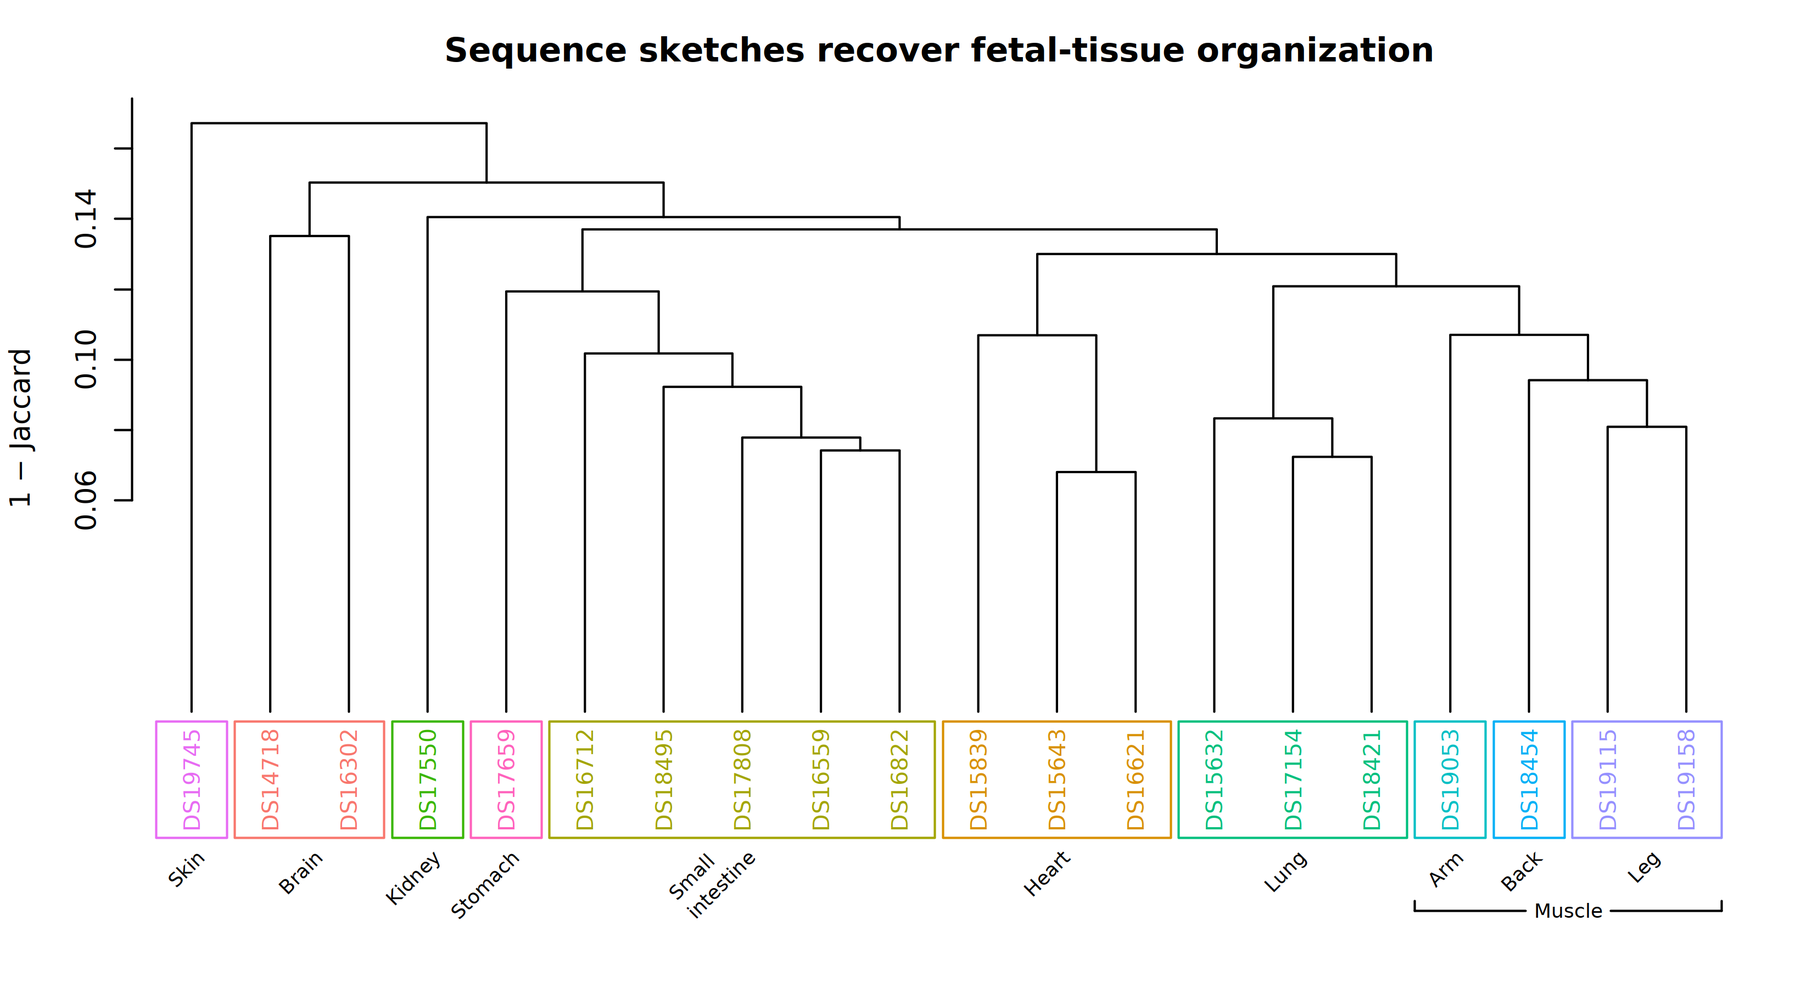
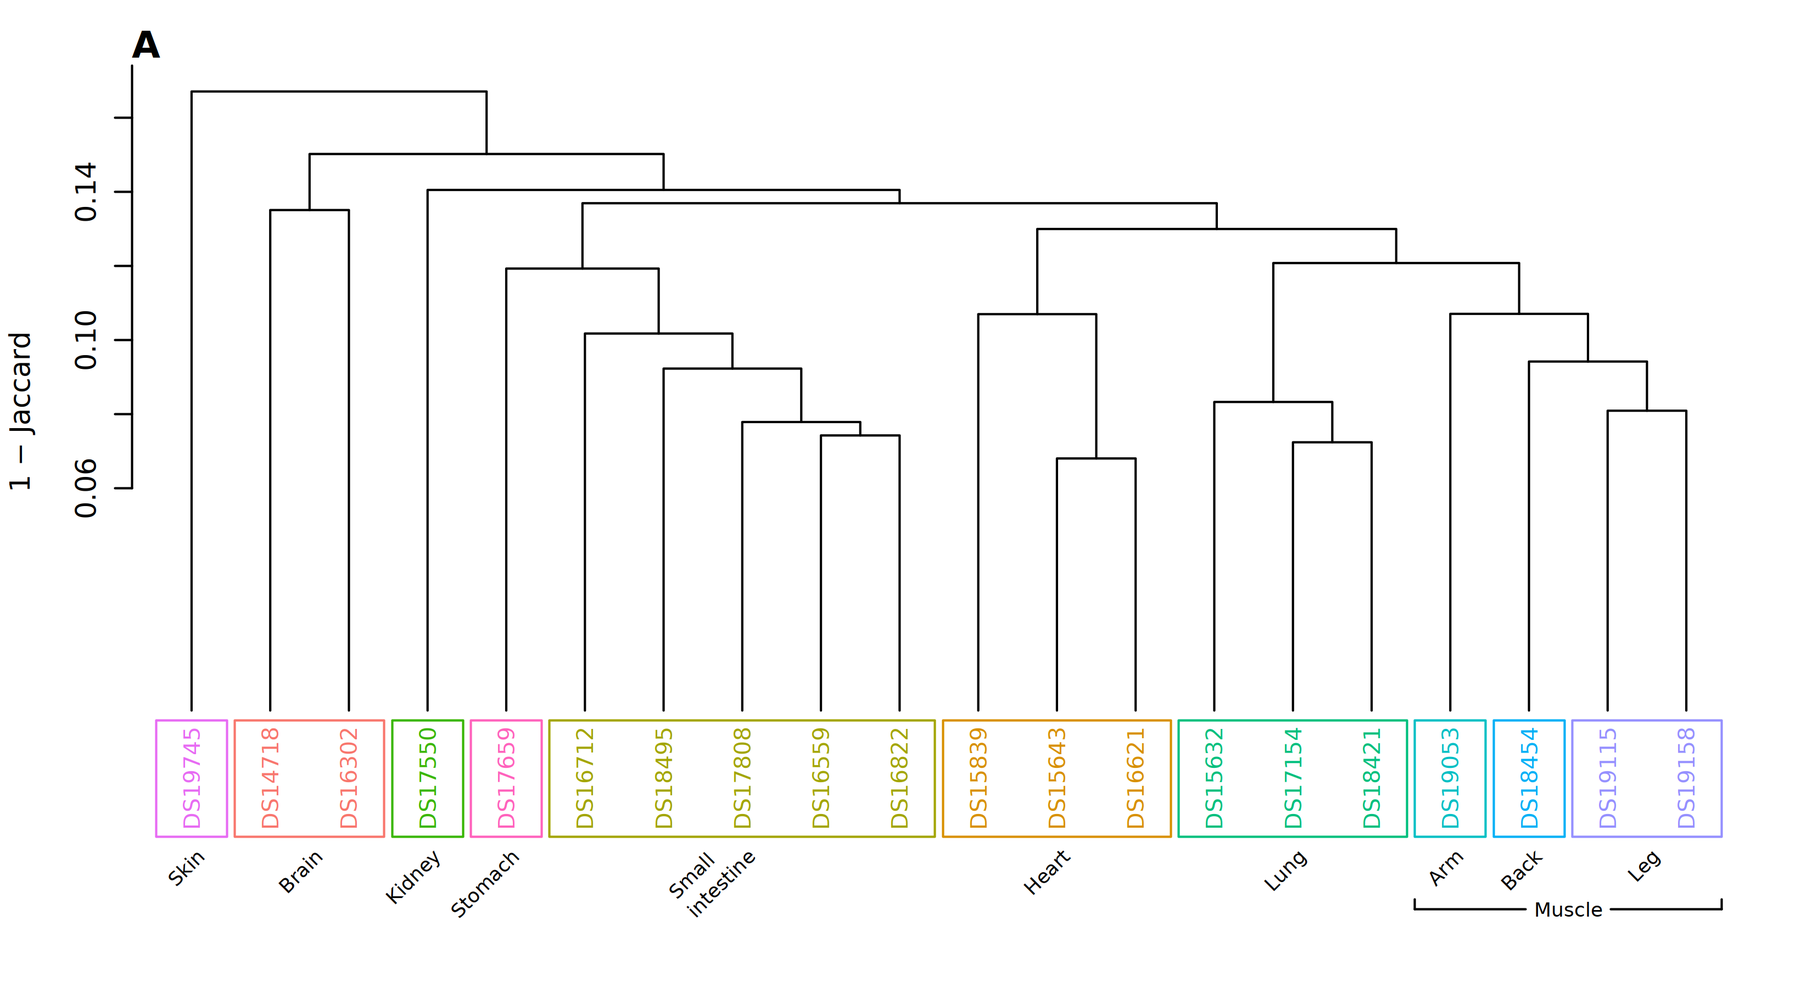
Add tissue distance heatmap companion

diff --git a/paper/draft.md b/paper/draft.md
@@ -107,9 +107,11 @@ Together, the synthetic and real-data benchmarks show that hammock improves the 
 
 ![Figure 6](figures/sequence_tissue_clustering.png)
 
-**Figure 6. Sequence sketches recover fetal-tissue organization in the Maurano DNase hypersensitivity collection.** Twenty fetal-tissue DNase-seq interval sets spanning ten annotated tissue labels were converted to interval-derived sequence and compared using the minimizer-only `reg_eq_similarity` score at k=10, w=30, and HyperLogLog precision p=24. Average-linkage hierarchical clustering was performed on 1-J. Leaf labels show dataset accessions and are colored by annotated tissue. The tissue coloring is an annotation of the dendrogram and does not represent a discrete cluster cut.
+![Figure 6B](figures/sequence_tissue_distance_heatmap.png)
 
-**Figure 6 generation.** The figure is generated by `paper/sequence_tissue_clustering/plot_sequence_tissue_clustering.R` and written to `paper/figures/sequence_tissue_clustering.png`. By default, the script reads `experiments/maurano_dhs_validation/results/raw_d/hammock_mnmzr_p24_jaccD_k10_w30.csv`, uses the register-equality column, and obtains tissue annotations from `experiments/maurano_dhs_validation/data/maurano_filenames_key.tsv`. (That archived CSV predates the `reg_eq_similarity` rename and still carries the legacy `jaccard_similarity` header; the script prefers `reg_eq_similarity` if present and falls back to `jaccard_similarity`, which is what actually resolves here.) Optional command-line arguments can substitute another similarity CSV, tissue key, output path, or similarity column. Passing `jaccard_similarity_ie` as the fourth argument produces Supplementary Figure S5a; the column is derived from the containment columns the archived CSV already carries, since the sweep predates it. Two further renderings of the same configuration at different precisions, `paper/figures/sequence_tissue_clustering_p12.png` and `sequence_tissue_clustering_p24.png`, record that the clustering is unchanged across the p ≥ 12 plateau and are retained as supporting material rather than manuscript figures.
+**Figure 6. Sequence sketches recover fetal-tissue organization in the Maurano DNase hypersensitivity collection.** Twenty fetal-tissue DNase-seq interval sets spanning ten annotated tissue labels were converted to interval-derived sequence and compared using the inclusion–exclusion Jaccard estimate, `jaccard_similarity_ie`, at k=10, w=30, and HyperLogLog precision p=24. **(A)** Average-linkage agglomerative hierarchical clustering was performed on 1−J. Leaf labels show dataset accessions and are colored and boxed by annotated tissue; these annotations do not represent a discrete cluster cut. **(B)** The complete pairwise 1−J distance matrix is ordered by the leaf order of the average-linkage dendrogram in A for direct comparison; this display ordering does not affect distances or cluster assignments. Accession-label colors and marginal bars denote annotated tissues, with arm, back, and leg grouped under muscle. Lime-green diagonal outlines show the ten clusters obtained by cutting the average-linkage hierarchy at k=10. They expose the departures from the annotated tissue partition: the two brain samples occupy separate singleton clusters, whereas the back sample and two leg samples occupy one cluster. The brain samples are nevertheless nearest neighbors (1−J=0.135), but their distance exceeds the tightest within-tissue distances for heart (~0.068) and lung (~0.072). Consequently, the ten-cluster cut occurs before the brain pair merges, yielding ARI=0.910 rather than 1.0.
+
+**Figure 6 generation.** Panel A is generated by `paper/sequence_tissue_clustering/plot_sequence_tissue_clustering.R` and written to `paper/figures/sequence_tissue_clustering.png`; Panel B is generated by `paper/sequence_tissue_clustering/plot_distance_heatmap.R` and written to `paper/figures/sequence_tissue_distance_heatmap.png`. Both scripts read `experiments/maurano_dhs_validation/results/raw_d/hammock_mnmzr_p24_jaccD_k10_w30_full.csv`, use `jaccard_similarity_ie`, and obtain tissue annotations from `experiments/maurano_dhs_validation/data/maurano_filenames_key.tsv`. The archived sweep predates the native inclusion–exclusion output column, so the scripts derive it from `containment_AB` and `containment_BA`. Optional command-line arguments can substitute another similarity CSV, tissue key, output path, or similarity column. Two further dendrogram renderings at different precisions are retained as supporting material rather than manuscript figures.
 
 ### 2.3.3 Parameterization separates numerical agreement from biological resolution
 
@@ -211,7 +213,7 @@ Explain determinism, seed handling, expected sampling density, computational cos
 - **Why not the joint maximum-likelihood estimator.** *"Ertl's joint MLE is the lower-variance choice for HyperLogLog Jaccard, but it requires the joint register histogram of the pair, which hammock's sketch interface does not expose; the inclusion–exclusion form is recoverable from the containment estimates already computed and needs no additional interface."* Pre-empts the obvious reviewer question.
 - **Which column to report.** *"We report* `jaccard_similarity_ie` *for any comparison of magnitude, and for any comparison spanning different set sizes;* `reg_eq_similarity` *is retained as the low-cost default."*
   - One clause on the exception (register-equality ranks better below J ≈ 0.05 at p ≤ 20 among comparably-sized pairs, and one step of precision removes the advantage), with the quantification deferred to a supplementary note rather than carried in Methods.
-  - **Figure 6 estimator note:** the current Figure 6 is generated from the register-equality column — `jaccard_similarity` in that archived sweep's own header, read via `reg_eq_similarity`-preferred/`jaccard_similarity`-fallback (see the generation note above) — because that is the column the original sequence-mode sweep emitted. At Figure 6's configuration (k=10, w=30, p=24) the two columns induce the *identical* 10-cluster partition — not merely equal scores, the same member sets — with ARI and NMI agreeing to sixteen digits. The equivalence is **local, not global**: across the 235-cell sweep the two columns give different ARI at 48 cells (max |ΔARI| 0.301). The disagreement decays with precision — 16 of 17 cells differ at p=10, but only 1 of 39 at p=24, and that one (k=8, w=500) has ARI 0.059 against 0.025, i.e. both clusterings are degenerate. So the defensible statement is "identical at p=24 except one degenerate cell, and at every cell the manuscript cites", not "identical everywhere". Generated by `paper/sequence_tissue_clustering/estimator_agreement_stats.csv` and `experiments/maurano_dhs_validation/results/estimator_ari_by_config.csv`. This is methodological context and should not be carried in the Figure 6 caption.
+  - **Figure 6 estimator note:** Figure 6 now uses `jaccard_similarity_ie`, derived from the archived sweep's containment columns. At Figure 6's configuration (k=10, w=30, p=24), inclusion–exclusion and the archived register-equality column induce the *identical* 10-cluster partition — not merely equal scores, the same member sets — with ARI and NMI agreeing to sixteen digits. The equivalence is **local, not global**: across the 235-cell sweep the two columns give different ARI at 48 cells (max |ΔARI| 0.301). The disagreement decays with precision — 16 of 17 cells differ at p=10, but only 1 of 39 at p=24, and that one (k=8, w=500) has ARI 0.059 against 0.025, i.e. both clusterings are degenerate. So the defensible statement is "identical at p=24 except one degenerate cell, and at every cell the manuscript cites", not "identical everywhere". Generated by `paper/sequence_tissue_clustering/estimator_agreement_stats.csv` and `experiments/maurano_dhs_validation/results/estimator_ari_by_config.csv`. This is methodological context and should not be carried in the Figure 6 caption.
 - **Complexity.** Retain the original stub: cost of mixed-stride sketch construction as a function of covered length and stride, alongside full interval ingestion and pairwise sketch comparison.
 
 ### 4.5 Datasets
@@ -256,9 +258,11 @@ The ordering differences under register-equality were small but systematic. Kend
 
 ### S5. Sequence-mode results are unchanged when read on `jaccard_similarity_ie`
 
-Every sequence-mode figure (Figures 5, 6, 7) is drawn on the register-equality column, because that is the column the sequence-mode sweeps emitted; `jaccard_similarity_ie` shipped afterwards. (Figure 5's source CSV was one of the five archived files renamed alongside the CLI, so it literally carries `reg_eq_similarity`; Figures 6 and 7's sources predate that rename and still carry the legacy `jaccard_similarity` header, read via the same fallback described above — same column, same values, different literal name depending on when the file was written.) Because the archived CSVs carry `containment_AB` and `containment_BA`, the inclusion–exclusion column is exactly recoverable from them (`J = 1/(1/C_AB + 1/C_BA − 1)`), so this check required no re-sketching.
+Figure 5 retains the register-equality column used by its original sequence-mode analysis. Figure 6 and its companion distance heatmap use `jaccard_similarity_ie`, while Figure 7 displays both estimators. Because the archived Figure 6 sweep carries `containment_AB` and `containment_BA`, its inclusion–exclusion column is exactly recoverable (`J = 1/(1/C_AB + 1/C_BA − 1)`), so the change requires no re-sketching.
 
-**Tissue clustering (Figure 6).** At k=10, w=30, p=24 the two columns induce the identical ten-cluster partition (ARI = 0.9102, NMI = 0.9610 under both, agreeing to sixteen digits). Supplementary Figure S5a (`paper/figures/sequence_tissue_clustering_k10_w30_p24_ie.png`) is the Figure 6 dendrogram redrawn on `jaccard_similarity_ie`; every annotated tissue occupies a contiguous, monophyletic block, as in Figure 6. Across the full 235-cell (k, w, p) sweep the columns are *not* interchangeable — ARI differs at 48 cells, maximum |ΔARI| = 0.301 — but the disagreement is concentrated at low precision (16 of 17 cells at p=10 against 1 of 39 at p=24) and does not touch any configuration the manuscript reports.
+**Tissue clustering (Figure 6).** At k=10, w=30, p=24 the inclusion–exclusion and register-equality columns induce the identical ten-cluster partition (ARI = 0.9102, NMI = 0.9610 under both, agreeing to sixteen digits). Figure 6 now displays the inclusion–exclusion result. Across the full 235-cell (k, w, p) sweep the columns are *not* interchangeable — ARI differs at 48 cells, maximum |ΔARI| = 0.301 — but the disagreement is concentrated at low precision (16 of 17 cells at p=10 against 1 of 39 at p=24) and does not touch any configuration the manuscript reports.
+
+The ten-cluster partition itself is not perfect (ARI 0.9102, not 1.0), and Figure 6A's tissue-colored boxes can make the shortfall harder to see than it is, because those boxes are drawn from the true tissue labels' contiguity in the leaf order, not from the `cutree(k=10)` assignment the ARI is computed from. Concretely, at this configuration `cutree` splits the two fBrain samples into two singleton clusters and groups the back sample with the two leg samples. Figure 6B plots the full pairwise 1−J distance matrix in the same leaf order and shows why: the fBrain pair's distance (0.135) is a real local minimum — they are each other's nearest neighbor — but it is larger than the tightest within-tissue distances for Heart (~0.068) or Lung (~0.072), so their merge is one of the ones pruned away when the tree is cut to exactly ten clusters.
 
 **Parameter selection (Figure 7).** The ARI-optimal configuration is k=10, w=30 under both columns, at the same ARI of 0.9102, and the best-ARI value is reached on a plateau spanning every precision p ≥ 12. The Pearson-optimal configuration differs between columns — k=20, w=100 on `reg_eq_similarity` (r = 0.9996) against k=20, w=20 on `jaccard_similarity_ie` (r = 0.99997) — so the two panels of Figure 7 annotate different best-Pearson points. Figure 7's claim is unaffected: under either column the Pearson optimum has ARI 0.693 against the ARI optimum's 0.910, so numerical agreement and biological resolution still select different settings.
 
@@ -270,7 +274,6 @@ Caveat worth carrying: `jaccard_similarity_ie` is censored at zero by the non-ne
 
 ## Supplementary Figures and Tables
 
-- **Figure S5a — sequence-mode tissue dendrogram on `jaccard_similarity_ie`:** `paper/figures/sequence_tissue_clustering_k10_w30_p24_ie.png`, generated by `paper/sequence_tissue_clustering/plot_sequence_tissue_clustering.R` with `jaccard_similarity_ie` as the fourth positional argument. Companion to Figure 6; see S5.
 - **Figure S5b — cross-reference dendrogram on `jaccard_similarity_ie`:** `paper/figures/cross_reference_identity_ie.png`, generated by `paper/cross_reference_identity/plot_cross_reference_identity.R` with the output path and `jaccard_similarity_ie` as its two positional arguments. Companion to Figure 5; see S5.
 - **Table S5 — estimator agreement:** `paper/sequence_tissue_clustering/estimator_agreement_stats.csv` (per-column ARI/NMI and partition identity at Figure 6's cell), `experiments/maurano_dhs_validation/results/estimator_ari_by_config.csv` (all 235 cells), `experiments/maurano_dhs_validation/results/best_config_by_column.csv` (per-column optimum with tie sets), and `experiments/ref-comparison/results/exp_a_estimator_delta.csv` (cross-reference Δ per cell).
 - **TODO — sequence-mode parameter heatmaps:** include the full k × w parameter-response heatmaps for numerical agreement with BEDTools and biological clustering performance (ARI/NMI), potentially stratified by HyperLogLog precision and/or estimator. These heatmaps should provide the complete response surface underlying the compact objective-space summary in Figure 7 without burdening the main-text figure.

diff --git a/paper/outline.md b/paper/outline.md
@@ -80,9 +80,11 @@ Together, the synthetic and real-data benchmarks show that hammock improves the 
 
 ![Figure 6](figures/sequence_tissue_clustering.png)
 
-**Figure 6. Sequence sketches recover fetal-tissue organization in the Maurano DNase hypersensitivity collection.** Twenty fetal-tissue DNase-seq interval sets spanning ten annotated tissue labels were converted to interval-derived sequence and compared using the minimizer-only `reg_eq_similarity` score at k=10, w=30, and HyperLogLog precision p=24. Average-linkage hierarchical clustering was performed on 1-J. Leaf labels show dataset accessions and are colored by annotated tissue. The tissue coloring is an annotation of the dendrogram and does not represent a discrete cluster cut.
+![Figure 6B](figures/sequence_tissue_distance_heatmap.png)
 
-**Figure 6 generation.** The figure is generated by `paper/sequence_tissue_clustering/plot_sequence_tissue_clustering.R` and written to `paper/figures/sequence_tissue_clustering.png`. By default, the script reads `experiments/maurano_dhs_validation/results/raw_d/hammock_mnmzr_p24_jaccD_k10_w30.csv`, uses the register-equality column, and obtains tissue annotations from `experiments/maurano_dhs_validation/data/maurano_filenames_key.tsv`. (That archived CSV predates the `reg_eq_similarity` rename and still carries the legacy `jaccard_similarity` header; the script prefers `reg_eq_similarity` if present and falls back to `jaccard_similarity`, which is what actually resolves here.) Optional command-line arguments can substitute another similarity CSV, tissue key, output path, or similarity column. Passing `jaccard_similarity_ie` as the fourth argument redraws the figure on that column, which is derived from the containment columns the archived CSV already carries, since the sweep predates it. Two further renderings of the same configuration at different precisions, `paper/figures/sequence_tissue_clustering_p12.png` and `sequence_tissue_clustering_p24.png`, record that the clustering is unchanged across the p ≥ 12 plateau and are retained as supporting material rather than manuscript figures.
+**Figure 6. Sequence sketches recover fetal-tissue organization in the Maurano DNase hypersensitivity collection.** Twenty fetal-tissue DNase-seq interval sets spanning ten annotated tissue labels were converted to interval-derived sequence and compared using the inclusion–exclusion Jaccard estimate, `jaccard_similarity_ie`, at k=10, w=30, and HyperLogLog precision p=24. **(A)** Average-linkage agglomerative hierarchical clustering was performed on 1−J. Leaf labels show dataset accessions and are colored and boxed by annotated tissue; these annotations do not represent a discrete cluster cut. **(B)** The complete pairwise 1−J distance matrix follows the leaf order of the average-linkage dendrogram in A for direct comparison; this display ordering does not affect distances or cluster assignments. Accession-label colors and marginal bars denote annotated tissues, with arm, back, and leg grouped under muscle. Lime-green diagonal outlines show the ten clusters obtained by cutting the average-linkage hierarchy at k=10. The brain samples occupy separate singleton clusters, whereas the back sample and two leg samples occupy one cluster, yielding ARI=0.910 rather than 1.0.
+
+**Figure 6 generation.** Panel A is generated by `paper/sequence_tissue_clustering/plot_sequence_tissue_clustering.R` and written to `paper/figures/sequence_tissue_clustering.png`; Panel B is generated by `paper/sequence_tissue_clustering/plot_distance_heatmap.R` and written to `paper/figures/sequence_tissue_distance_heatmap.png`. Both scripts read `experiments/maurano_dhs_validation/results/raw_d/hammock_mnmzr_p24_jaccD_k10_w30_full.csv`, use `jaccard_similarity_ie`, and obtain tissue annotations from `experiments/maurano_dhs_validation/data/maurano_filenames_key.tsv`. The archived sweep predates the native inclusion–exclusion output column, so the scripts derive it from `containment_AB` and `containment_BA`.
 
 ### 2.3.3 Parameterization separates numerical agreement from biological resolution
 
@@ -141,7 +143,7 @@ For each pair of input datasets, hammock reports the following similarity summar
 | `cosketch_arith`        | Arithmetic mean of the two directional containment estimates                   |
 | `cosketch_max`          | Maximum of the two directional containment estimates                           |
 
-Analyses that estimate set Jaccard magnitudes or compare hammock with exact BEDTools Jaccard use the inclusion–exclusion estimate, `jaccard_similarity_ie`. Sequence-mode biological analyses that use the register-equality score, `reg_eq_similarity`, identify it explicitly; despite its legacy column name, this score is not set Jaccard and should not be interpreted on the same numerical scale. The legacy name is retained for output-schema and downstream-workflow compatibility. Sketch construction and interval subsampling are reproducible for fixed parameter values and seeds.
+Analyses that estimate set Jaccard magnitudes or compare hammock with exact BEDTools Jaccard use the inclusion–exclusion estimate, `jaccard_similarity_ie`; Figure 6 and its companion heatmap also use this estimator. Sequence-mode biological analyses that use the register-equality score, `reg_eq_similarity`, identify it explicitly; despite its legacy column name, this score is not set Jaccard and should not be interpreted on the same numerical scale. The legacy name is retained for output-schema and downstream-workflow compatibility. Sketch construction and interval subsampling are reproducible for fixed parameter values and seeds.
 
 ### 4.2 Interval-mode sketch construction
 
@@ -183,7 +185,7 @@ Explain determinism, seed handling, expected sampling density, computational cos
 - **Why not the joint maximum-likelihood estimator.** *"Ertl's joint MLE is the lower-variance choice for HyperLogLog Jaccard, but it requires the joint register histogram of the pair, which hammock's sketch interface does not expose; the inclusion–exclusion form is recoverable from the containment estimates already computed and needs no additional interface."* Pre-empts the obvious reviewer question.
 - **Which column to report.** *"We report* `jaccard_similarity_ie` *for any comparison of magnitude, and for any comparison spanning different set sizes;* `reg_eq_similarity` *is retained as the low-cost default."*
   - One clause on the exception (register-equality ranks better below J ≈ 0.05 at p ≤ 20 among comparably-sized pairs, and one step of precision removes the advantage); the quantification is deferred rather than carried in Methods.
-  - **Figure 6 estimator note:** the current Figure 6 is generated from the register-equality column — `jaccard_similarity` in that archived sweep's own header, read via `reg_eq_similarity`-preferred/`jaccard_similarity`-fallback (see the generation note above) — because that is the column the original sequence-mode sweep emitted. At Figure 6's configuration (k=10, w=30, p=24) the two columns induce the *identical* 10-cluster partition — not merely equal scores, the same member sets — with ARI and NMI agreeing to sixteen digits. The equivalence is **local, not global**: across the 235-cell sweep the two columns give different ARI at 48 cells (max |ΔARI| 0.301). The disagreement decays with precision — 16 of 17 cells differ at p=10, but only 1 of 39 at p=24, and that one (k=8, w=500) has ARI 0.059 against 0.025, i.e. both clusterings are degenerate. So the defensible statement is "identical at p=24 except one degenerate cell, and at every cell the manuscript cites", not "identical everywhere". Generated by `paper/sequence_tissue_clustering/estimator_agreement_stats.csv` and `experiments/maurano_dhs_validation/results/estimator_ari_by_config.csv`. This is methodological context and should not be carried in the Figure 6 caption.
+  - **Figure 6 estimator note:** Figure 6 uses `jaccard_similarity_ie`, derived from the archived sweep's containment columns. At Figure 6's configuration (k=10, w=30, p=24) the inclusion–exclusion and register-equality columns induce the *identical* 10-cluster partition — not merely equal scores, the same member sets — with ARI and NMI agreeing to sixteen digits. The equivalence is **local, not global**: across the 235-cell sweep the two columns give different ARI at 48 cells (max |ΔARI| 0.301). The disagreement decays with precision — 16 of 17 cells differ at p=10, but only 1 of 39 at p=24, and that one (k=8, w=500) has ARI 0.059 against 0.025, i.e. both clusterings are degenerate. So the defensible statement is "identical at p=24 except one degenerate cell, and at every cell the manuscript cites", not "identical everywhere". Generated by `paper/sequence_tissue_clustering/estimator_agreement_stats.csv` and `experiments/maurano_dhs_validation/results/estimator_ari_by_config.csv`. This is methodological context and should not be carried in the Figure 6 caption.
 - **Complexity.** Retain the original stub: cost of mixed-stride sketch construction as a function of covered length and stride, alongside full interval ingestion and pairwise sketch comparison.
 
 ### 4.5 Datasets
